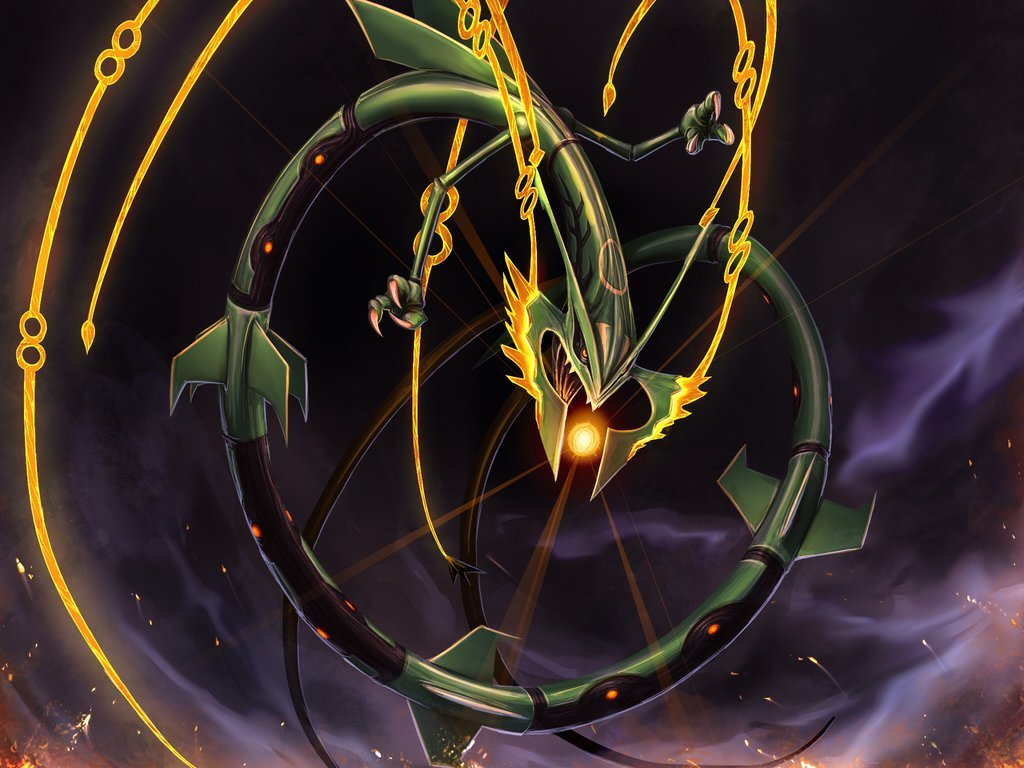
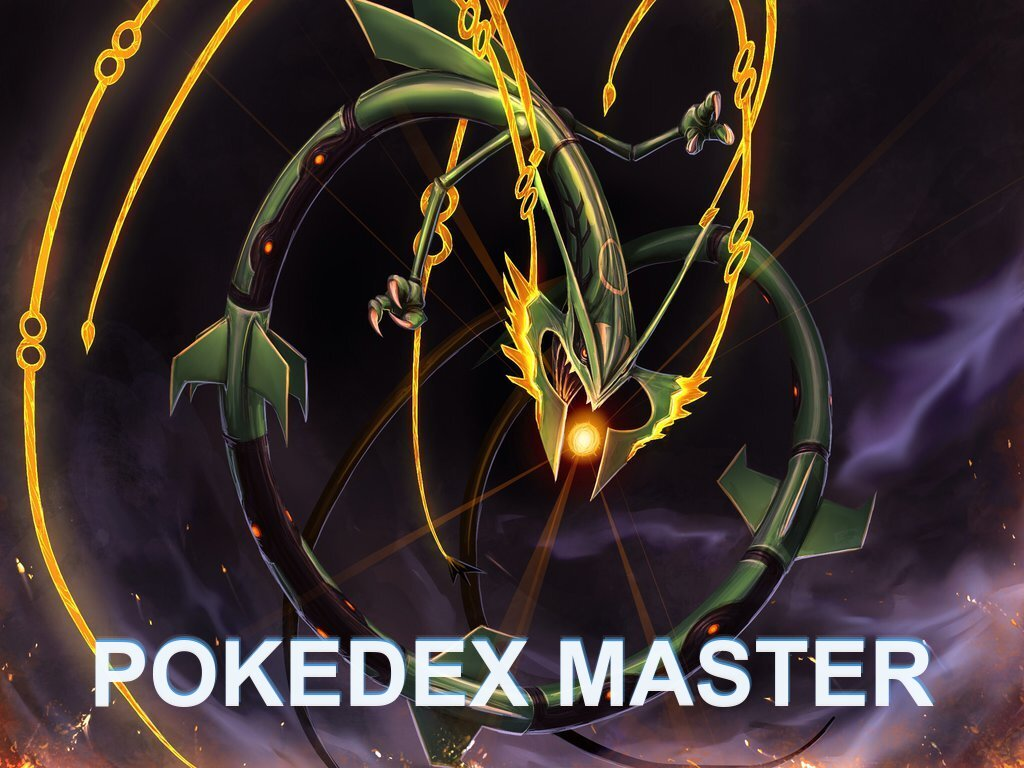
Bake Pokedex Master text into header image

Changed region(s): [[0.0938, 0.8125, 0.9062, 0.9375]]

diff --git a/README.md b/README.md
@@ -2,9 +2,6 @@
 
 <img src="header.jpg" width="100%"/>
 
-<h1 style="margin-top:0">Pokedex Master</h1>
-<sub>whosluzy</sub>
-
 <br/>
 
 [![Typing SVG](https://readme-typing-svg.demolab.com?font=Fira+Code&weight=600&size=18&duration=3000&pause=1000&color=58A6FF&center=true&vCenter=true&multiline=false&width=500&lines=Pok%C3%A9mon+SysBot+Hobbyist;Switch+trade+bot+tinkerer;%2F%2F+always+one+merge+away+from+breaking+things)](https://git.io/typing-svg)
